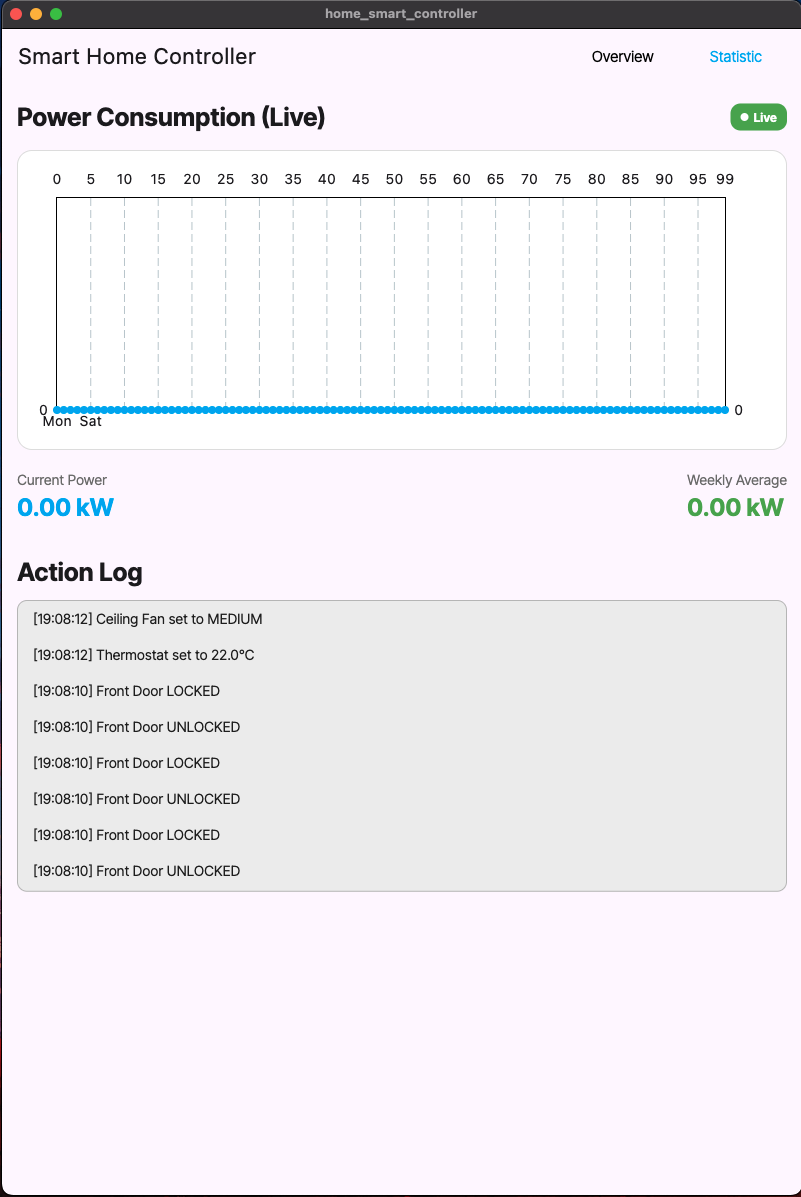
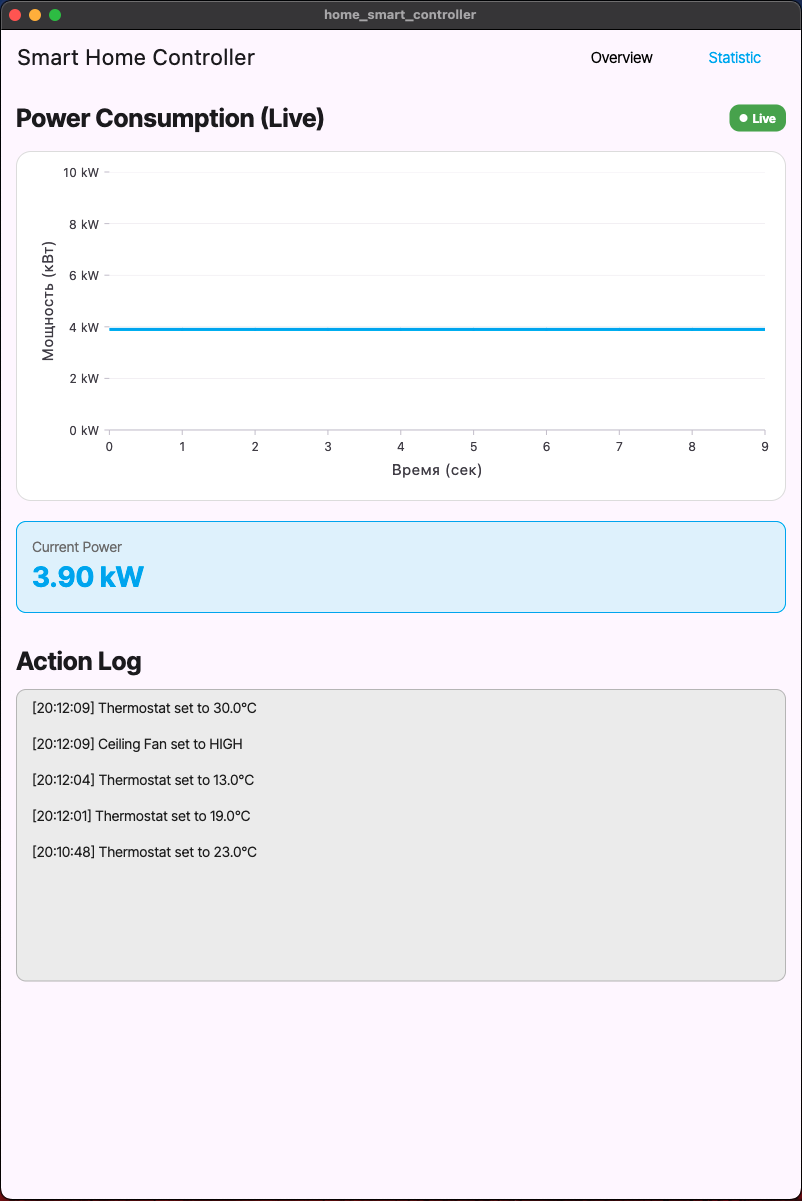
feat: update power usage management to real-time updates and enhance statistics charting

diff --git a/lib/statistics.dart b/lib/statistics.dart
@@ -1,7 +1,7 @@
 import 'package:flutter/material.dart';
 import 'package:google_fonts/google_fonts.dart';
 import 'package:provider/provider.dart';
-import 'package:fl_chart/fl_chart.dart';
+import 'package:syncfusion_flutter_charts/charts.dart';
 import 'package:smart_home_controller/action_log_provider.dart';
 import 'package:smart_home_controller/appbar.dart';
 import 'dart:async';
@@ -19,10 +19,10 @@ class _StatisticsState extends State<Statistics> {
   @override
   void initState() {
     super.initState();
-    // Update chart every 1 second for real-time updates
-    _timer = Timer.periodic(Duration(seconds: 1), (timer) {
+    // Update chart every 5 seconds for real-time updates
+    _timer = Timer.periodic(Duration(seconds: 5), (timer) {
       if (mounted) {
-        // Update power data every second
+        // Update power data every 5 seconds
         final logProvider = Provider.of<ActionLogProvider>(
           context,
           listen: false,
@@ -100,111 +100,85 @@ class _StatisticsState extends State<Statistics> {
                       ),
                       SizedBox(height: 15),
                       Container(
-                        height: 300,
+                        height: 350,
+                        width: double.infinity,
                         decoration: BoxDecoration(
                           color: Colors.white,
                           borderRadius: BorderRadius.circular(15),
                           border: Border.all(color: Colors.grey[300]!),
                         ),
                         child: Padding(
-                          padding: EdgeInsets.all(16),
-                          child: LineChart(
-                            LineChartData(
-                              gridData: FlGridData(show: true),
-                              titlesData: FlTitlesData(
-                                bottomTitles: AxisTitles(
-                                  sideTitles: SideTitles(
-                                    showTitles: true,
-                                    getTitlesWidget: (value, meta) {
-                                      const titles = [
-                                        'Mon',
-                                        'Tue',
-                                        'Wed',
-                                        'Thu',
-                                        'Fri',
-                                        'Sat',
-                                        'Sun',
-                                      ];
-                                      if (value.toInt() < titles.length) {
-                                        return Text(titles[value.toInt()]);
-                                      }
-                                      return Text('');
-                                    },
-                                  ),
-                                ),
-                                leftTitles: AxisTitles(
-                                  sideTitles: SideTitles(showTitles: true),
-                                ),
-                              ),
-                              borderData: FlBorderData(show: true),
-                              lineBarsData: [
-                                LineChartBarData(
-                                  spots: List.generate(
-                                    logProvider.powerUsage.length,
-                                    (index) => FlSpot(
-                                      index.toDouble(),
-                                      logProvider.powerUsage[index],
-                                    ),
-                                  ),
-                                  isCurved: true,
-                                  color: Colors.lightBlue,
-                                  barWidth: 3,
-                                  dotData: FlDotData(show: true),
-                                  belowBarData: BarAreaData(
-                                    show: true,
-                                    color: Colors.lightBlue.withOpacity(0.3),
-                                  ),
-                                ),
-                              ],
+                          padding: EdgeInsets.all(10),
+                          child: SfCartesianChart(
+                            plotAreaBorderWidth: 0,
+                            primaryXAxis: NumericAxis(
+                              isVisible: true,
+                              title: AxisTitle(text: 'Время (сек)'),
+                              majorGridLines: const MajorGridLines(width: 0),
                             ),
+                            primaryYAxis: NumericAxis(
+                              title: AxisTitle(text: 'Мощность (кВт)'),
+                              labelFormat: '{value} kW',
+                              majorGridLines: const MajorGridLines(width: 0.5),
+                              axisLine: const AxisLine(width: 0),
+                              minimum: 0,
+                              maximum: 10,
+                            ),
+                            tooltipBehavior: TooltipBehavior(
+                              enable: true,
+                              format: 'point.x: point.y kW',
+                            ),
+                            series: <CartesianSeries>[
+                              LineSeries<PowerData, int>(
+                                dataSource: List.generate(
+                                  logProvider.powerUsage.length,
+                                  (index) => PowerData(
+                                    index,
+                                    logProvider.powerUsage[index],
+                                  ),
+                                ),
+                                xValueMapper: (PowerData data, _) => data.time,
+                                yValueMapper: (PowerData data, _) => data.power,
+                                color: Colors.lightBlue,
+                                width: 3,
+                              ),
+                            ],
                           ),
                         ),
                       ),
                       SizedBox(height: 20),
-                      Row(
-                        mainAxisAlignment: MainAxisAlignment.spaceBetween,
-                        children: [
-                          Column(
-                            crossAxisAlignment: CrossAxisAlignment.start,
-                            children: [
-                              Text(
-                                'Current Power',
-                                style: GoogleFonts.interTight(
-                                  fontSize: 14,
-                                  color: Colors.grey[600],
+                      Container(
+                        padding: EdgeInsets.all(15),
+                        decoration: BoxDecoration(
+                          color: Colors.blue[50],
+                          borderRadius: BorderRadius.circular(10),
+                          border: Border.all(color: Colors.lightBlue),
+                        ),
+                        child: Row(
+                          mainAxisAlignment: MainAxisAlignment.spaceBetween,
+                          children: [
+                            Column(
+                              crossAxisAlignment: CrossAxisAlignment.start,
+                              children: [
+                                Text(
+                                  'Current Power',
+                                  style: GoogleFonts.interTight(
+                                    fontSize: 14,
+                                    color: Colors.grey[600],
+                                  ),
                                 ),
-                              ),
-                              Text(
-                                '${logProvider.powerUsage.last.toStringAsFixed(2)} kW',
-                                style: GoogleFonts.interTight(
-                                  fontWeight: FontWeight.bold,
-                                  fontSize: 24,
-                                  color: Colors.lightBlue,
+                                Text(
+                                  '${logProvider.powerUsage.last.toStringAsFixed(2)} kW',
+                                  style: GoogleFonts.interTight(
+                                    fontWeight: FontWeight.bold,
+                                    fontSize: 28,
+                                    color: Colors.lightBlue,
+                                  ),
                                 ),
-                              ),
-                            ],
-                          ),
-                          Column(
-                            crossAxisAlignment: CrossAxisAlignment.start,
-                            children: [
-                              Text(
-                                'Weekly Average',
-                                style: GoogleFonts.interTight(
-                                  fontSize: 14,
-                                  color: Colors.grey[600],
-                                ),
-                              ),
-                              Text(
-                                '${(logProvider.powerUsage.reduce((a, b) => a + b) / logProvider.powerUsage.length).toStringAsFixed(2)} kW',
-                                style: GoogleFonts.interTight(
-                                  fontWeight: FontWeight.bold,
-                                  fontSize: 24,
-                                  color: Colors.green,
-                                ),
-                              ),
-                            ],
-                          ),
-                        ],
+                              ],
+                            ),
+                          ],
+                        ),
                       ),
                       SizedBox(height: 30),
                       Text(
@@ -261,4 +235,10 @@ class _StatisticsState extends State<Statistics> {
       },
     );
   }
+}
+
+class PowerData {
+  PowerData(this.time, this.power);
+  final int time;
+  final double power;
 }

diff --git a/lib/main.dart b/lib/main.dart
@@ -1,5 +1,4 @@
 import 'package:flutter/material.dart';
-import 'package:syncfusion_flutter_charts/charts.dart';
 import 'package:google_fonts/google_fonts.dart';
 import 'package:provider/provider.dart';
 import 'package:smart_home_controller/action_log_provider.dart';
@@ -39,8 +38,8 @@ class _MainAppState extends State<MainApp> {
   @override
   void initState() {
     super.initState();
-    // Обновляем граф каждую секунду
-    _timer = Timer.periodic(Duration(seconds: 1), (timer) {
+    // Обновляем граф каждые 5 секунд мгновенно
+    _timer = Timer.periodic(Duration(seconds: 5), (timer) {
       if (mounted) {
         final logProvider = Provider.of<ActionLogProvider>(
           context,
@@ -630,120 +629,6 @@ class _MainAppState extends State<MainApp> {
                       ),
                       SizedBox(height: 20),
                       Text(
-                        'Потребление электричества (Живой график)',
-                        style: GoogleFonts.interTight(
-                          fontWeight: FontWeight.bold,
-                          fontSize: 25,
-                        ),
-                      ),
-                      SizedBox(height: 10),
-                      Container(
-                        height: 350, // Фиксированная высота
-                        width: double.infinity, // Полная ширина
-                        decoration: BoxDecoration(
-                          color: Colors.white,
-                          borderRadius: BorderRadius.circular(15),
-                          border: Border.all(color: Colors.grey[300]!),
-                        ),
-                        child: Padding(
-                          padding: EdgeInsets.all(10),
-                          child: SfCartesianChart(
-                            plotAreaBorderWidth: 0,
-                            primaryXAxis: NumericAxis(
-                              isVisible: true,
-                              title: AxisTitle(text: 'Время (сек)'),
-                              majorGridLines: const MajorGridLines(width: 0),
-                            ),
-                            primaryYAxis: NumericAxis(
-                              title: AxisTitle(text: 'Мощность (кВт)'),
-                              labelFormat: '{value} kW',
-                              majorGridLines: const MajorGridLines(width: 0.5),
-                              axisLine: const AxisLine(width: 0),
-                              minimum: 0, // Минимум - 0 kW внизу
-                              maximum: 10, // Максимум - 10 kW вверху
-                            ),
-                            tooltipBehavior: TooltipBehavior(
-                              enable: true,
-                              format: 'point.x: point.y kW',
-                            ),
-                            series: <CartesianSeries>[
-                              SplineSeries<PowerData, int>(
-                                dataSource: List.generate(
-                                  logProvider.powerUsage.length,
-                                  (index) => PowerData(
-                                    index,
-                                    logProvider.powerUsage[index],
-                                  ),
-                                ),
-                                xValueMapper: (PowerData data, _) => data.time,
-                                yValueMapper: (PowerData data, _) => data.power,
-                                color: Colors.lightBlue,
-                                width: 3,
-                                splineType:
-                                    SplineType.monotonic, // Добавьте эту строку
-                                cardinalSplineTension:
-                                    0.8, // Добавьте эту строку
-                              ),
-                            ],
-                          ),
-                        ),
-                      ),
-                      SizedBox(height: 20),
-                      Container(
-                        padding: EdgeInsets.all(15),
-                        decoration: BoxDecoration(
-                          color: Colors.blue[50],
-                          borderRadius: BorderRadius.circular(10),
-                          border: Border.all(color: Colors.lightBlue),
-                        ),
-                        child: Row(
-                          mainAxisAlignment: MainAxisAlignment.spaceBetween,
-                          children: [
-                            Column(
-                              crossAxisAlignment: CrossAxisAlignment.start,
-                              children: [
-                                Text(
-                                  'Текущее потребление',
-                                  style: GoogleFonts.interTight(
-                                    fontSize: 14,
-                                    color: Colors.grey[600],
-                                  ),
-                                ),
-                                Text(
-                                  '${logProvider.powerUsage.last.toStringAsFixed(2)} кВт',
-                                  style: GoogleFonts.interTight(
-                                    fontWeight: FontWeight.bold,
-                                    fontSize: 28,
-                                    color: Colors.lightBlue,
-                                  ),
-                                ),
-                              ],
-                            ),
-                            Column(
-                              crossAxisAlignment: CrossAxisAlignment.start,
-                              children: [
-                                Text(
-                                  'Средняя за неделю',
-                                  style: GoogleFonts.interTight(
-                                    fontSize: 14,
-                                    color: Colors.grey[600],
-                                  ),
-                                ),
-                                Text(
-                                  '${(logProvider.powerUsage.reduce((a, b) => a + b) / logProvider.powerUsage.length).toStringAsFixed(2)} кВт',
-                                  style: GoogleFonts.interTight(
-                                    fontWeight: FontWeight.bold,
-                                    fontSize: 28,
-                                    color: Colors.green,
-                                  ),
-                                ),
-                              ],
-                            ),
-                          ],
-                        ),
-                      ),
-                      SizedBox(height: 20),
-                      Text(
                         'Cameras',
                         style: GoogleFonts.interTight(
                           fontWeight: FontWeight.bold,
@@ -763,10 +648,4 @@ class _MainAppState extends State<MainApp> {
       },
     );
   }
-}
-
-class PowerData {
-  PowerData(this.time, this.power);
-  final int time;
-  final double power;
 }

diff --git a/lib/action_log_provider.dart b/lib/action_log_provider.dart
@@ -55,21 +55,21 @@ class ActionLogProvider extends ChangeNotifier {
   void toggleLight() {
     isLightOn = !isLightOn;
     addLog('Living Room Light turned ${isLightOn ? 'ON' : 'OFF'}');
-    updatePowerUsage();
+    updatePowerUsageRealTime();
     notifyListeners();
   }
 
   void toggleDoor() {
     isDoorOpen = !isDoorOpen;
     addLog('Front Door ${isDoorOpen ? 'UNLOCKED' : 'LOCKED'}');
-    updatePowerUsage();
+    updatePowerUsageRealTime();
     notifyListeners();
   }
 
   void setTemperature(double value) {
     temperature = value;
     addLog('Thermostat set to ${temperature.toStringAsFixed(1)}°C');
-    updatePowerUsage();
+    updatePowerUsageRealTime();
     notifyListeners();
   }
 
@@ -91,7 +91,7 @@ class ActionLogProvider extends ChangeNotifier {
         break;
     }
     addLog('Ceiling Fan set to $speedName');
-    updatePowerUsage();
+    updatePowerUsageRealTime();
     notifyListeners();
   }
 
